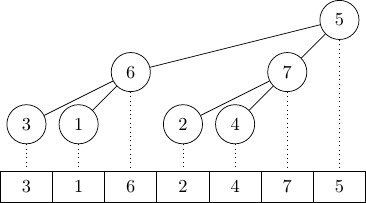
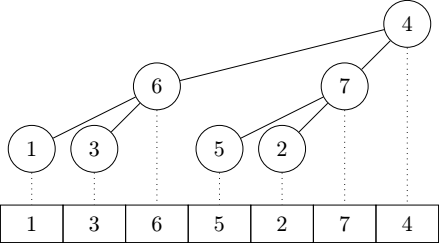
Illustration for bottom-up sift leaf search

diff --git a/graphs/semipoplar-sift-bottom-up.tex b/graphs/semipoplar-sift-bottom-up.tex
@@ -17,14 +17,16 @@
 \node[elem] (n7) at (6,2) {4};
 
 % Links between the nodes
-\draw[{Latex[length=2mm]}-{Latex[length=2mm]}] (n7) -- (n6) node[midway,left,font=\footnotesize] {$4 < 7$};
-\draw[dashed,{Latex[length=2mm]}-{Latex[length=2mm]},bend left,draw=gray] (n7) to[out=45,in=125] (n6);
-\draw[{Latex[length=2mm]}-{Latex[length=2mm]}] (n3) -- (n6) node[midway,below,font=\footnotesize] {$6 < 7$};
+\draw (n7) -- (n6);
 \draw (n7) -- (n3);
 \draw (n6) -- (n5);
 \draw (n6) -- (n4);
 \draw (n3) -- (n2);
 \draw (n3) -- (n1);
+
+% Comparisons between child nodes
+\draw[{Latex[length=2mm]}-{Latex[length=2mm]}] (n3) -- (n6) node[midway,below,font=\footnotesize] {$6 < 7$};
+\draw[{Latex[length=2mm]}-{Latex[length=2mm]}] (n4) -- (n5) node[midway,below,font=\footnotesize] {$2 < 5$};
 
 % Draw the array representation of the poplar heap 
 \tikzstyle{every node}=[draw,shape=rectangle,minimum width=1.5cm,minimum height=0.6cm,anchor=center];

diff --git a/graphs/semipoplar-sift-fewer-moves.tex b/graphs/semipoplar-sift-fewer-moves.tex
@@ -8,8 +8,8 @@
 \begin{tikzpicture}[scale=1.5,elem/.style={draw,shape=circle,minimum size=0.75cm},background rectangle/.style={fill=white},show background rectangle]
 
 % Draw the poplar heap nodes
-\node[elem] (n1) at (0,0) {3};
-\node[elem] (n2) at (1,0) {1};
+\node[elem] (n1) at (0,0) {1};
+\node[elem] (n2) at (1,0) {3};
 \node[elem] (n3) at (2,1) {6};
 \node[elem] (n4) at (3,0) {5};
 \node[elem] (n5) at (4,0) {2};
@@ -31,7 +31,7 @@
 
 % Draw the array representation of the poplar heap 
 \tikzstyle{every node}=[draw,shape=rectangle,minimum width=1.5cm,minimum height=0.6cm,anchor=center];
-\foreach \x [count=\idx] in {3,1,6,5,2,7,4}
+\foreach \x [count=\idx] in {1,3,6,5,2,7,4}
   \node (r\idx) at (\idx-1,-0.75){\x};
 
 % Explicitly link the nodes to the array representation

diff --git a/graphs/semipoplar-sift-naive-2.tex b/graphs/semipoplar-sift-naive-2.tex
@@ -8,8 +8,8 @@
 \begin{tikzpicture}[scale=1.5,elem/.style={draw,shape=circle,minimum size=0.75cm},background rectangle/.style={fill=white},show background rectangle]
 
 % Draw the poplar heap nodes
-\node[elem] (n1) at (0,0) {3};
-\node[elem] (n2) at (1,0) {1};
+\node[elem] (n1) at (0,0) {1};
+\node[elem] (n2) at (1,0) {3};
 \node[elem] (n3) at (2,1) {6};
 \node[elem] (n4) at (3,0) {5};
 \node[elem] (n5) at (4,0) {2};
@@ -28,7 +28,7 @@
 
 % Draw the array representation of the poplar heap 
 \tikzstyle{every node}=[draw,shape=rectangle,minimum width=1.5cm,minimum height=0.6cm,anchor=center];
-\foreach \x [count=\idx] in {3,1,6,5,2,4,7}
+\foreach \x [count=\idx] in {1,3,6,5,2,4,7}
   \node (r\idx) at (\idx-1,-0.75){\x};
 
 % Explicitly link the nodes to the array representation

diff --git a/graphs/poplar.tex b/graphs/poplar.tex
@@ -8,11 +8,11 @@
 \tikzstyle{every node}=[draw,shape=circle,minimum size=0.75cm];
 
 % Draw the poplar heap nodes
-\node (n1) at (0,0) {3};
-\node (n2) at (1,0) {1};
+\node (n1) at (0,0) {1};
+\node (n2) at (1,0) {3};
 \node (n3) at (2,1) {6};
-\node (n4) at (3,0) {2};
-\node (n5) at (4,0) {4};
+\node (n4) at (3,0) {4};
+\node (n5) at (4,0) {2};
 \node (n6) at (5,1) {5};
 \node (n7) at (6,2) {7};
 
@@ -26,7 +26,7 @@
 
 % Draw the array representation of the poplar heap 
 \tikzstyle{every node}=[draw,shape=rectangle,minimum width=1cm,minimum height=0.6cm,anchor=center];
-\foreach \x [count=\idx] in {3,1,6,2,4,5,7}
+\foreach \x [count=\idx] in {1,3,6,4,2,5,7}
   \node (r\idx) at (\idx-1,-1.2){\x};
 
 % Explicitly link the nodes to the array representation
